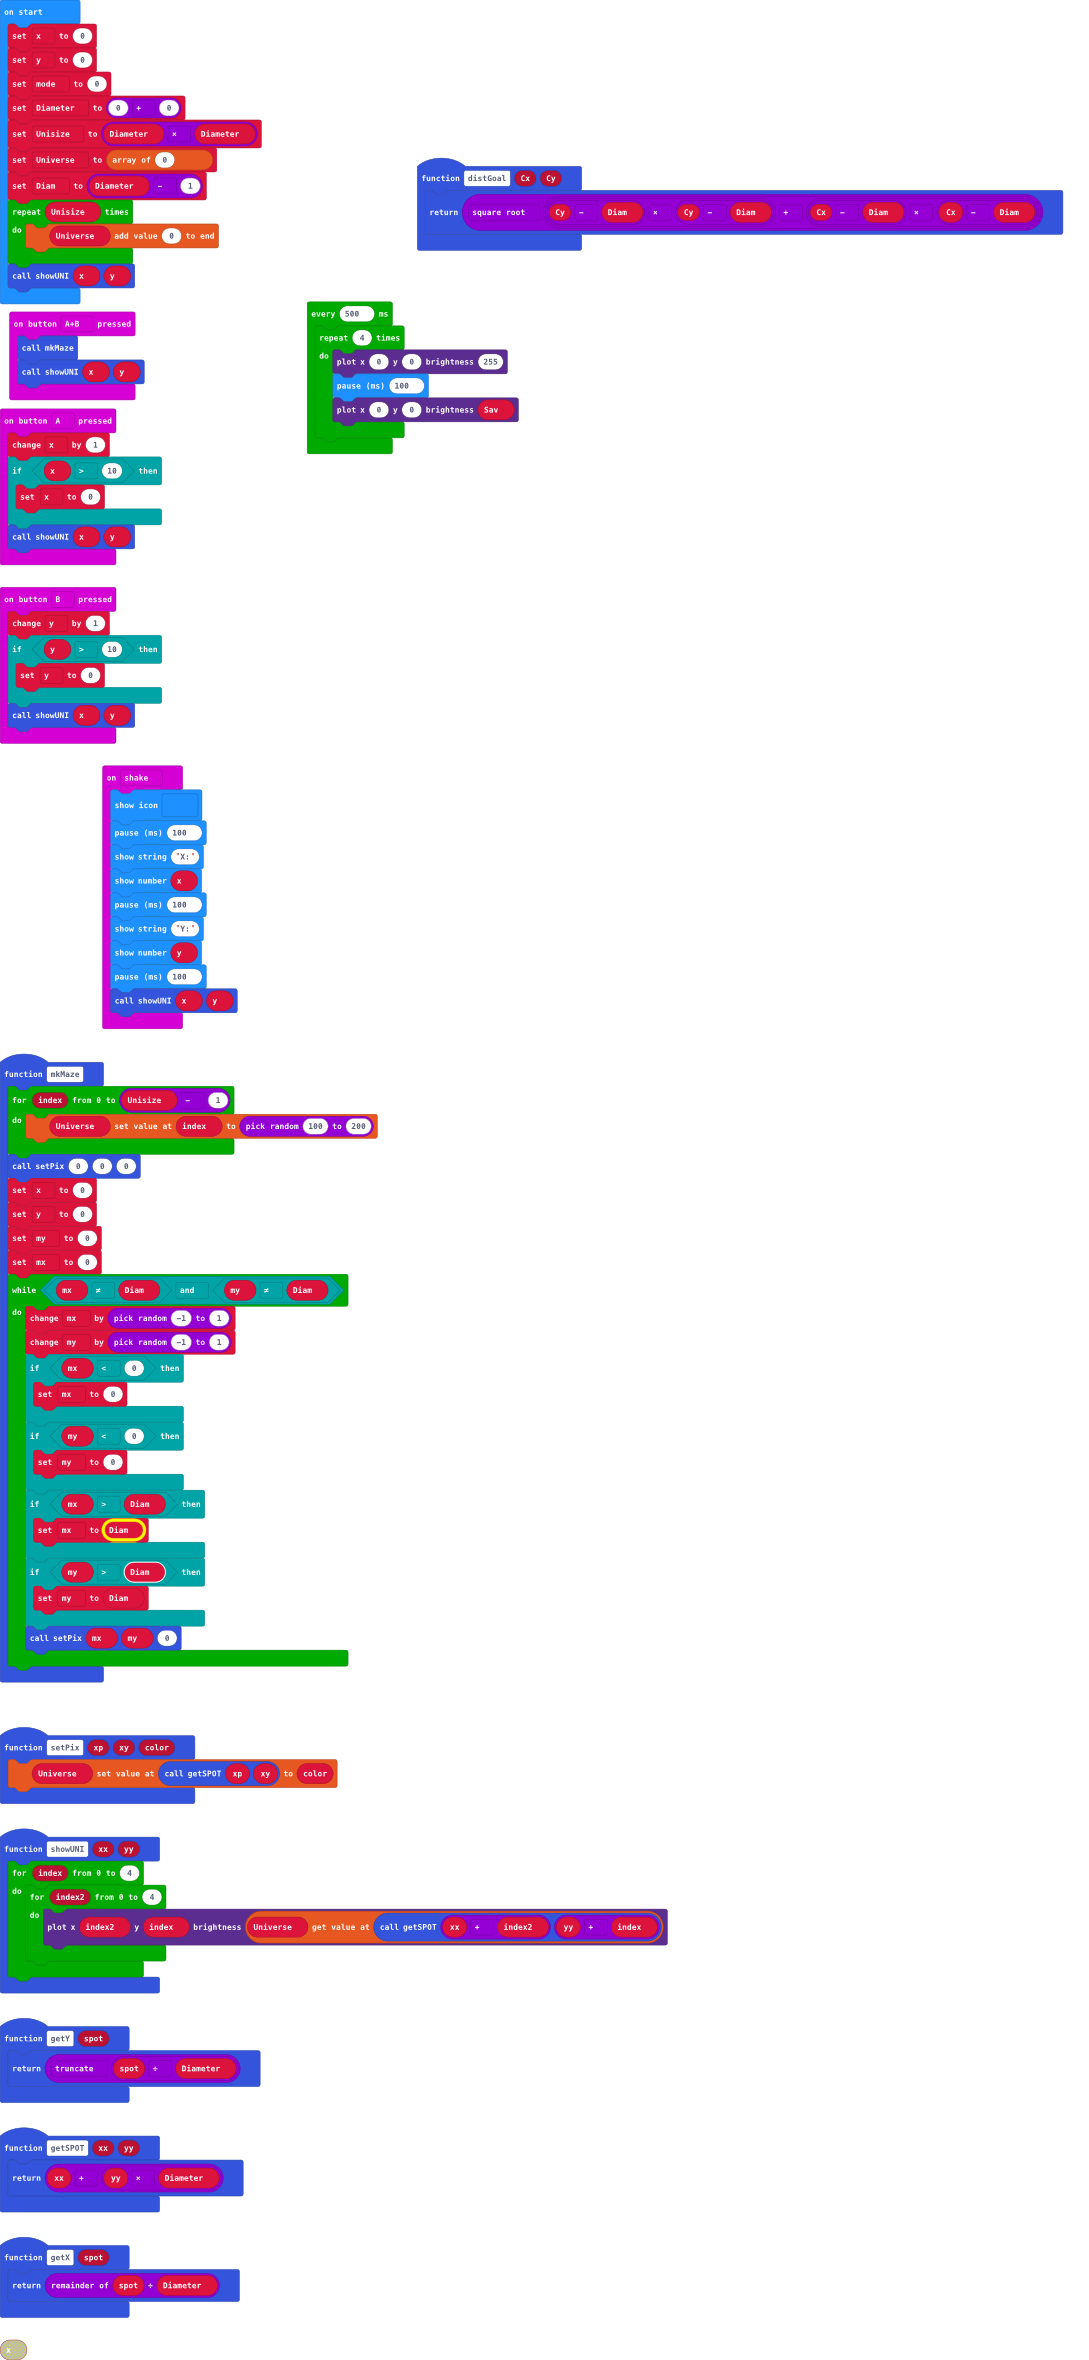
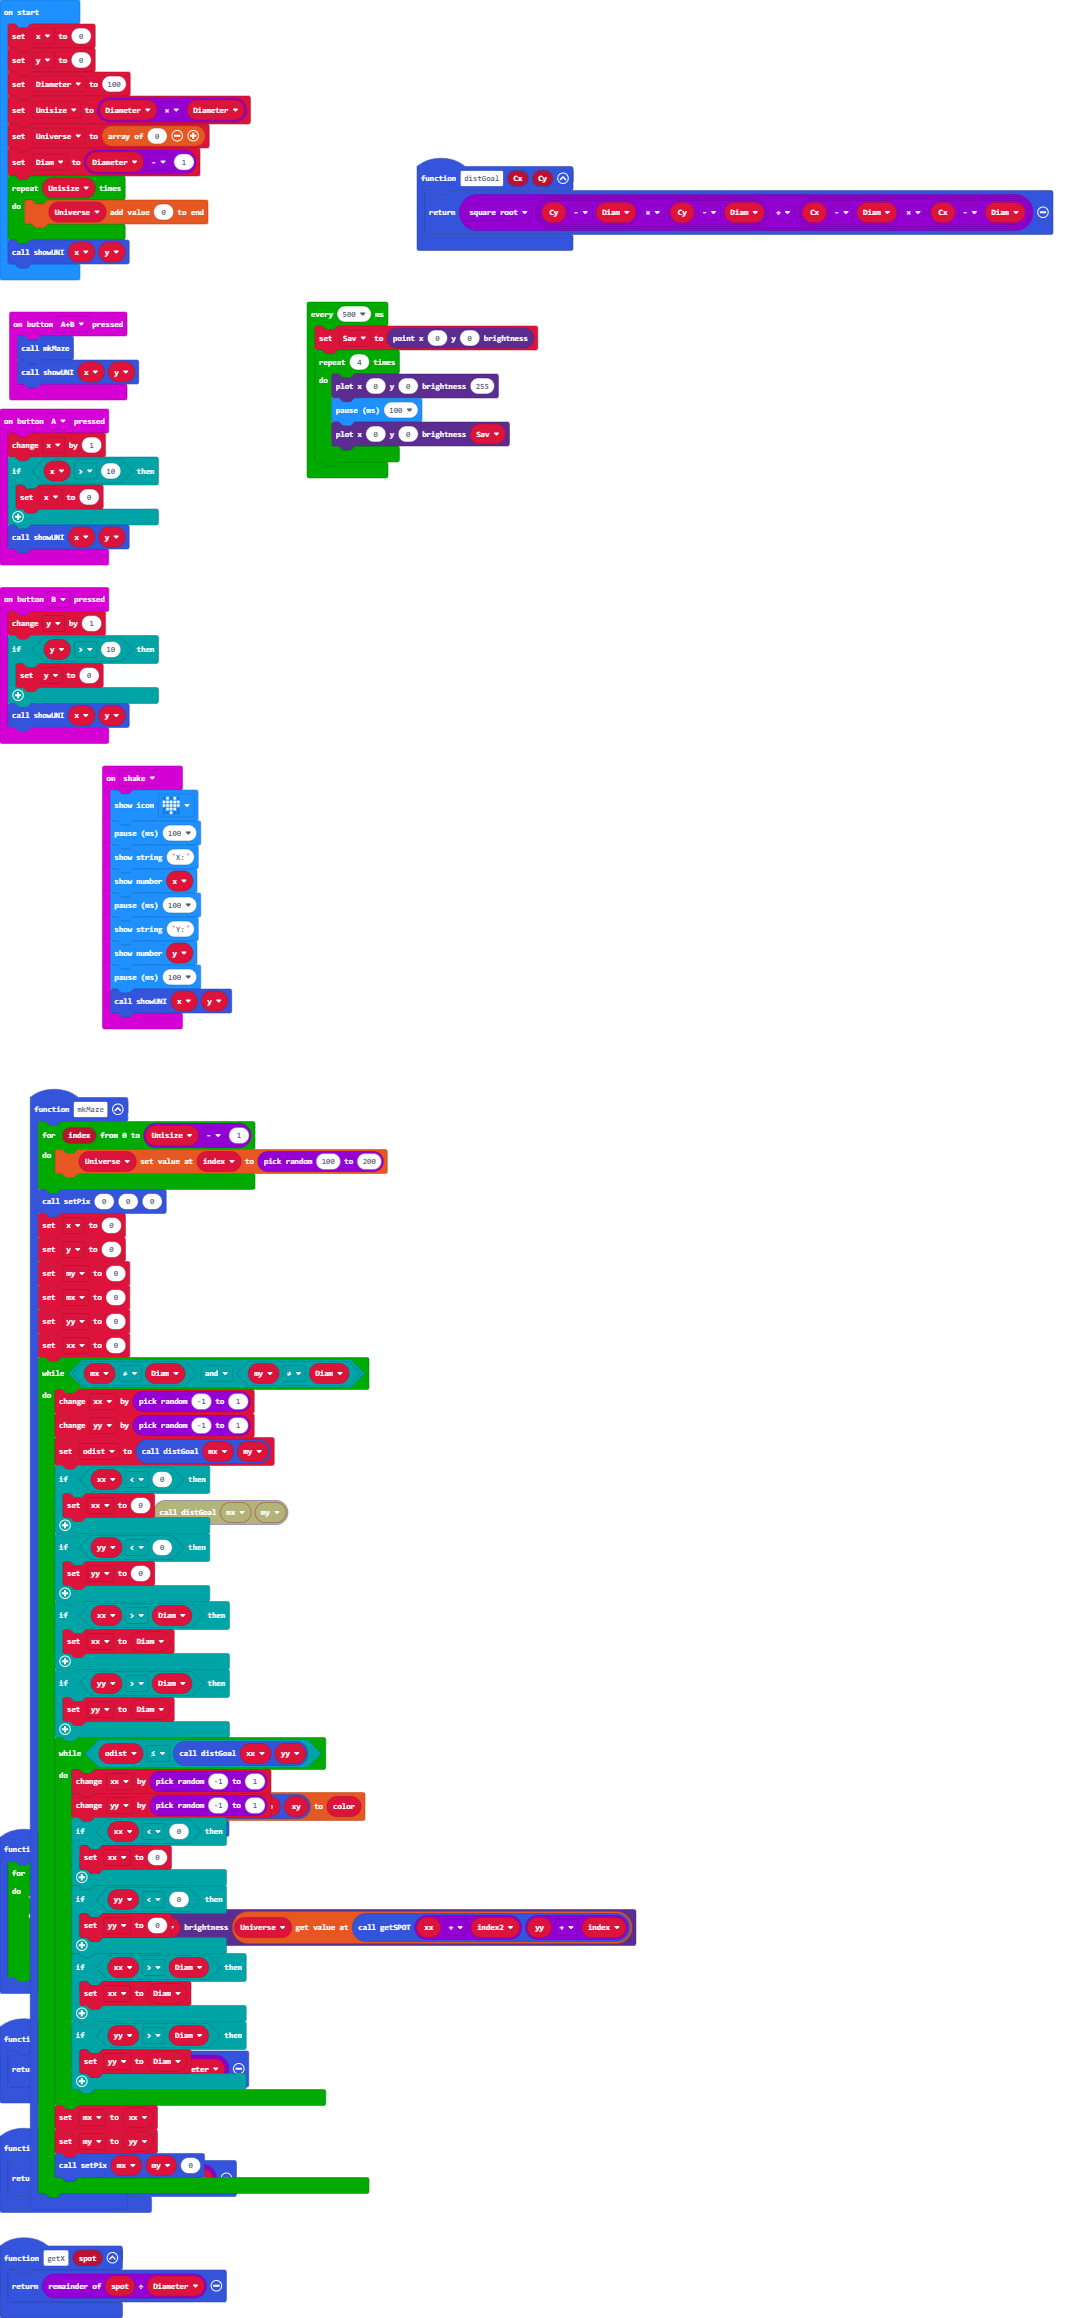
Update main.blocks, main.ts

Changed region(s): [[0.0, 0.0, 0.6117, 1.0], [0.2753, 0.0621, 0.9787, 0.2174]]

diff --git a/main.ts b/main.ts
@@ -49,21 +49,42 @@ function mkMaze () {
     y = 0
     my = 0
     mx = 0
+    yy = 0
+    xx = 0
     while (mx != Diam && my != Diam) {
-        mx += randint(-1, 1)
-        my += randint(-1, 1)
-        if (mx < 0) {
-            mx = 0
+        xx += randint(-1, 1)
+        yy += randint(-1, 1)
+        odist = distGoal(mx, my)
+        if (xx < 0) {
+            xx = 0
         }
-        if (my < 0) {
-            my = 0
+        if (yy < 0) {
+            yy = 0
         }
-        if (mx > Diam) {
-            mx = Diam
+        if (xx > Diam) {
+            xx = Diam
         }
-        if (my > Diam) {
-            my = Diam
+        if (yy > Diam) {
+            yy = Diam
         }
+        while (odist <= distGoal(xx, yy)) {
+            xx += randint(-1, 1)
+            yy += randint(-1, 1)
+            if (xx < 0) {
+                xx = 0
+            }
+            if (yy < 0) {
+                yy = 0
+            }
+            if (xx > Diam) {
+                xx = Diam
+            }
+            if (yy > Diam) {
+                yy = Diam
+            }
+        }
+        mx = xx
+        my = yy
         setPix(mx, my, 0)
     }
 }
@@ -76,6 +97,10 @@ function getSPOT (xx: number, yy: number) {
 function getX (spot: number) {
     return spot % Diameter
 }
+let Sav = 0
+let odist = 0
+let xx = 0
+let yy = 0
 let mx = 0
 let my = 0
 let Diam = 0
@@ -86,8 +111,7 @@ let y = 0
 let x = 0
 x = 0
 y = 0
-let mode = 0
-Diameter = 0 + 0
+Diameter = 100
 Unisize = Diameter * Diameter
 Universe = [0]
 Diam = Diameter - 1
@@ -96,8 +120,8 @@ for (let index = 0; index < Unisize; index++) {
 }
 showUNI(x, y)
 loops.everyInterval(500, function () {
+    Sav = led.pointBrightness(0, 0)
     for (let index = 0; index < 4; index++) {
-        let Sav = 0
         led.plotBrightness(0, 0, 255)
         basic.pause(100)
         led.plotBrightness(0, 0, Sav)
